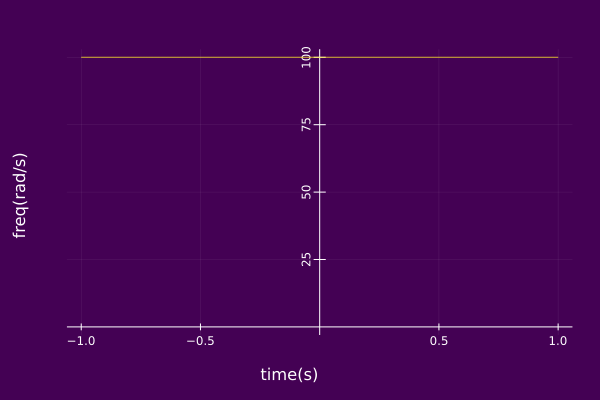
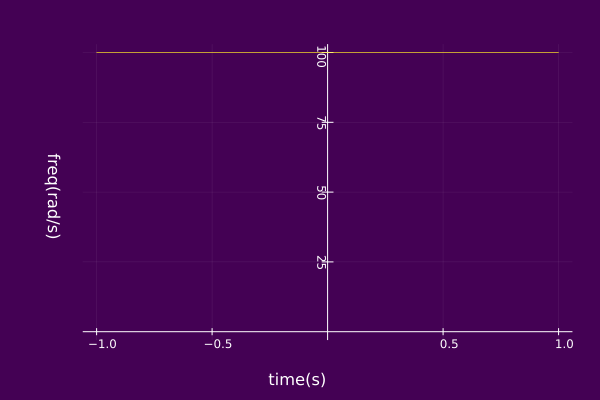
update SHC plots

Changed region(s): [[0.12, 0.12, 0.96, 0.87], [0.0, 0.39, 0.12, 0.6], [0.42, 0.9, 0.54, 0.99]]

diff --git a/docs/src/basicComponents/SHC.md b/docs/src/basicComponents/SHC.md
@@ -53,11 +53,8 @@ plot(𝐶₀; timeaxis=-1.0:0.001:1.0)
 using ISA, Plots
 𝐶₀ = AMFMtriplet(t->1,t->100,0.0)
 ψ₀ = AMFMcomp(𝐶₀)
-plot(𝐶₀; timeaxis=-1.0:0.001:1.0)
-plot!( camera=(0,90),
-       zlabel="", zticks=:false,
-       left_margin=15Plots.mm, margin=5Plots.mm,
-       yrotation = 90, ymirror=true)
+plot(𝐶₀; timeaxis=-1.0:0.001:1.0, view="TF",
+left_margin=15Plots.mm, margin=5Plots.mm)
 ```
 ![](https://raw.githubusercontent.com/NMSU-ISA/ISA/master/docs/src/assets/IS_exSHC3.png)
 
@@ -84,11 +81,8 @@ plot(𝐶₀; timeaxis=-1.0:0.001:1.0)
 using ISA, Plots
 𝐶₀ = AMFMtriplet(t->1,t->10π,0.0)
 ψ₀ = AMFMcomp(𝐶₀)
-plot(𝐶₀; timeaxis=-1.0:0.001:1.0)
-plot!( camera=(0,90),
-       zlabel="", zticks=:false,
-       left_margin=15Plots.mm, margin=5Plots.mm,
-       yrotation = 90, ymirror=true)
+plot(𝐶₀; timeaxis=-1.0:0.001:1.0, view="TF",
+left_margin=15Plots.mm, margin=5Plots.mm)
 ```
 ![](https://raw.githubusercontent.com/NMSU-ISA/ISA/master/docs/src/assets/IS_exSHC6.png)
 
@@ -115,10 +109,7 @@ plot(𝐶₀; timeaxis=-1.0:0.001:1.0)
 using ISA, Plots
 𝐶₀ = AMFMtriplet(t->10,t->exp(π),1.0)
 ψ₀ = AMFMcomp(𝐶₀)
-plot(𝐶₀; timeaxis=-1.0:0.001:1.0)
-plot!( camera=(0,90),
-       zlabel="", zticks=:false,
-       left_margin=15Plots.mm, margin=5Plots.mm,
-       yrotation = 90, ymirror=true)
+plot(𝐶₀; timeaxis=-1.0:0.001:1.0, view="TF",
+left_margin=15Plots.mm, margin=5Plots.mm)
 ```
 ![](https://raw.githubusercontent.com/NMSU-ISA/ISA/master/docs/src/assets/IS_exSHC9.png)
